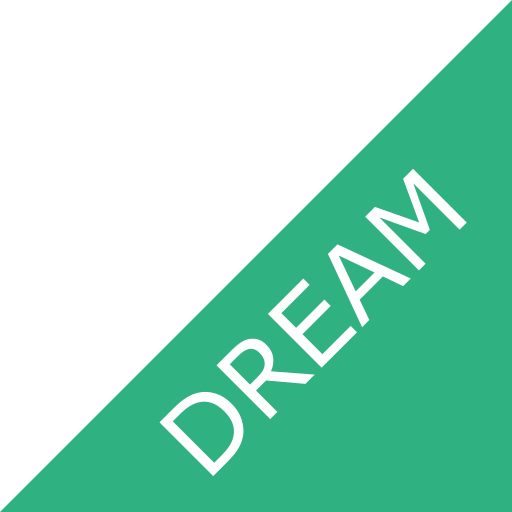
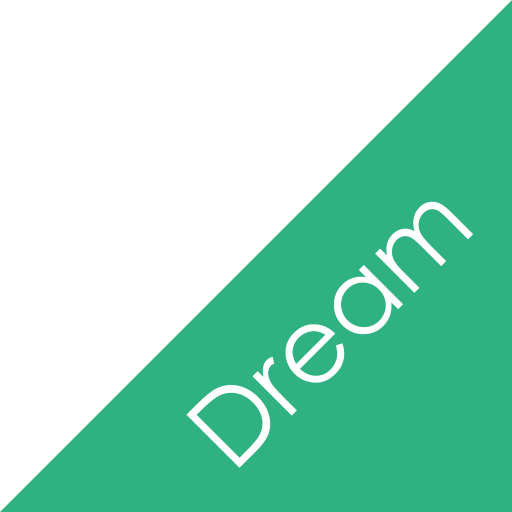
Improved status bar. Improved watermark. Added status message to details page. Added full name to user menu.

Changed region(s): [[0.3125, 0.3125, 0.9375, 0.9375]]

diff --git a/src/Details/Details.js b/src/Details/Details.js
@@ -35,7 +35,7 @@ class Details extends React.Component {
     this.setState({ thisNoodle: thisNoodle });
   };
   // Method to determine classes of the status bar
-  setStatusClasses = (
+  getStatusClasses = (
     noodleStatus,
     noodleMinTickets,
     noodleMaxTickets,
@@ -65,7 +65,7 @@ class Details extends React.Component {
     return status_classes;
   };
   // Method to determine classes of page elements
-  setElementClasses = (
+  getElementClasses = (
     noodleStatus,
     noodleLocation,
     noodleDate,
@@ -81,6 +81,7 @@ class Details extends React.Component {
       noodleTicketPrice: visible,
       noodleMinTickets: visible,
       noodleMaxTickets: visible,
+      noodleTicketsSold: visible,
       noodleBuyButton: visible,
     };
     if (noodleStatus == "dream") {
@@ -88,12 +89,50 @@ class Details extends React.Component {
       element_classes.noodleTicketPrice = hidden;
       element_classes.noodleMinTickets = hidden;
       element_classes.noodleMaxTickets = hidden;
+      element_classes.noodleTicketsSold = hidden;
       element_classes.noodleBuyButton = hidden;
     }
     if (noodleLocation == null) element_classes.noodleLocation = hidden;
     if (noodleDate == null) element_classes.noodleDate = hidden;
     if (noodleTime == null) element_classes.noodleTime = hidden;
     return element_classes;
+  };
+  // Method to determine a status message
+  getStatusMessage = () => {
+    const {
+      noodleStatus: status,
+      noodleTicketsSold: sold,
+      noodleMinTickets: min,
+      noodleMaxTickets: max,
+    } = this.state.thisNoodle;
+    if (status == "dream") {
+      return <p>Like this dream event to show your support!</p>;
+    } else if (sold < min) {
+      const diff = min - sold;
+      return (
+        <p>
+          Only{" "}
+          <span class="dreams_color_text">
+            <strong>{diff}</strong>
+          </span>{" "}
+          ticket
+          {diff > 1 ? "s" : ""} left to make it happen!
+        </p>
+      );
+    } else if (sold < max) {
+      const diff = max - sold;
+      return (
+        <p>
+          Only{" "}
+          <span class="events_color_text">
+            <strong>{diff}</strong>
+          </span>{" "}
+          ticket{diff > 1 ? "s" : ""} remaining!
+        </p>
+      );
+    } else {
+      return <p>This event is all sold out!</p>;
+    }
   };
   // Render method
   render() {
@@ -117,14 +156,14 @@ class Details extends React.Component {
     // Get the type for tag links
     const filterType = this.props.match.params.filterType;
     // Get status classes
-    const status_classes = this.setStatusClasses(
+    const status_classes = this.getStatusClasses(
       noodleStatus,
       noodleMinTickets,
       noodleMaxTickets,
       noodleTicketsSold
     );
     // Get element classes
-    const element_classes = this.setElementClasses(
+    const element_classes = this.getElementClasses(
       noodleStatus,
       noodleLocation,
       noodleDate,
@@ -187,14 +226,14 @@ class Details extends React.Component {
                 ></meter>
                 <meter
                   className={`details_progress_not_happening ${status_classes.notHappening}`}
-                  max={noodleMinTickets + 1}
-                  value={noodleTicketsSold + 1}
+                  max={noodleMinTickets}
+                  value={noodleTicketsSold}
                 ></meter>
                 <meter
                   className={`details_progress_happening ${status_classes.happening}`}
                   min={noodleMinTickets}
-                  max={noodleMaxTickets + 1}
-                  value={noodleTicketsSold + 1}
+                  max={noodleMaxTickets}
+                  value={noodleTicketsSold}
                 ></meter>
                 <meter
                   className={`details_progress_sold_out ${status_classes.soldOut}`}
@@ -203,10 +242,11 @@ class Details extends React.Component {
                   value={noodleTicketsSold + 1}
                 ></meter>
               </div>
+              {this.getStatusMessage()}
             </div>
           </div>
           <div id="details_intro_right" className="details_intro_column">
-            <h3>{<CapitalizedText text={noodleStatus} />} Details</h3>
+            <h3>{noodleStatus == "dream" ? "Dream " : ""}Event Details</h3>
             <div id="details_summary">
               <p class={element_classes.noodleLocation}>
                 Location: {noodleLocation}
@@ -217,6 +257,9 @@ class Details extends React.Component {
               <p class={element_classes.noodleTime}>{noodleTime}</p>
               <p class={element_classes.noodleTicketPrice}>
                 Ticket Price: {noodlePrice}
+              </p>
+              <p class={element_classes.noodleTicketsSold}>
+                Tickets Sold: {noodleTicketsSold}
               </p>
               <p class={element_classes.noodleMinTickets}>
                 Minimum Tickets Sold: {noodleMinTickets}

diff --git a/src/Details/css/Details.css b/src/Details/css/Details.css
@@ -81,8 +81,9 @@
 }
 
 #details .details_status_container_container {
-  background-color: lightgray;
-  padding: 10px 10px 10px 10px;
+  /* background-color: lightgray; */
+  /* padding: 10px 10px 10px 10px; */
+  padding: 10px 0px;
   border-radius: 10px;
 }
 
@@ -114,12 +115,13 @@
 #details .details_status_container > span {
   height: 25px;
   text-align: center;
-  color: darkgray;
+  color: lightgray;
   display: flex;
   justify-content: center;
   align-items: center;
-  background-color: darkgray;
+  background-color: lightgray;
   font-size: 14px;
+  user-select: none;
 }
 
 #details .details_progress_container {
@@ -132,11 +134,11 @@
   display: flex;
   justify-content: center;
   align-items: center;
-  background-color: lightgray;
+  /* background-color: lightgray; */
 }
 
 #details meter::-webkit-meter-bar {
-  background-color: darkgray;
+  background-color: lightgray;
   border: none;
 }
 
@@ -182,52 +184,72 @@
   border-radius: 0px;
 }
 
-#details .details_status_dream.passed,
+#details .details_status_dream.passed {
+  background-color: var(--events-color);
+  color: var(--events-color);
+}
+
 #details .details_progress_dream.passed::-webkit-meter-optimum-value {
+  background-color: var(--dreams-color);
+}
+
+#details .details_status_not_happening.passed {
   background-color: var(--events-color);
   color: var(--events-color);
 }
 
-#details .details_status_not_happening.passed,
 #details .details_progress_not_happening.passed::-webkit-meter-optimum-value {
+  background-color: var(--dreams-color);
+}
+
+#details .details_status_happening.passed {
   background-color: var(--events-color);
   color: var(--events-color);
 }
 
-#details .details_status_happening.passed,
 #details .details_progress_happening.passed::-webkit-meter-optimum-value {
+  background-color: var(--dreams-color);
+}
+
+#details .details_status_sold_out.passed {
   background-color: var(--events-color);
   color: var(--events-color);
 }
 
-#details .details_status_sold_out.passed,
 #details .details_progress_sold_out.passed::-webkit-meter-optimum-value {
   background-color: var(--events-color);
 }
 
 #details meter::-webkit-meter-optimum-value {
   background-color: darkgray;
+  transition: 1s width;
 }
 
 #details .details_status_dream.checked {
-  color: white;
+  /* color: white; */
   background-color: var(--dreams-color);
+  color: var(--dreams-color);
+}
+
+#details .details_status_container > span:hover {
+  color: white;
+  cursor: pointer;
 }
 
 #details .details_status_dream.finished {
   border-bottom-left-radius: 10px;
 }
 
-#details .details_status_not_happening.checked {
+/* #details .details_status_not_happening.checked {
   color: white;
-}
+} */
 
-#details .details_status_happening.checked {
+/* #details .details_status_happening.checked {
   color: white;
-}
+} */
 
 #details .details_status_sold_out.checked {
-  color: white;
+  /* color: white; */
   border-bottom-right-radius: 10px;
 }
 
@@ -237,6 +259,12 @@
 
 #details #details_host_intro_dream > button.hidden {
   display: none;
+}
+
+#details .details_status_container_container > p {
+  padding-top: 10px;
+  text-align: center;
+  user-select: none;
 }
 
 /* Style for mobile */

diff --git a/src/Navbar.js b/src/Navbar.js
@@ -8,7 +8,9 @@ class Navbar extends React.Component {
     // Get the current user data
     // Destructure the current user data
     const userID = this.props.userID;
-    const { userName, userImage } = this.props.userData[userID - 1];
+    const { userFirstName, userLastName, userImage } = this.props.userData[
+      userID - 1
+    ];
     // Return the Noodlewall navbar
     return (
       <nav>
@@ -85,7 +87,9 @@ class Navbar extends React.Component {
                     <h3>Your Account</h3>
                     <Link to={`/user/${userID}`}>
                       <img src={userImage} alt="User"></img>
-                      <p>{userName}</p>
+                      <p>
+                        {userFirstName} {userLastName}
+                      </p>
                     </Link>
                     <Link className="noodle_button" to="/">
                       Manage Your Account

diff --git a/src/noodleData.js b/src/noodleData.js
@@ -21,8 +21,8 @@ export const noodleData = [
     noodleDate: "2021-04-01",
     noodleTime: "8:30AM-5:00PM",
     noodlePrice: "$17.00",
-    noodleMinTickets: 25,
-    noodleMaxTickets: 50,
+    noodleMinTickets: 5,
+    noodleMaxTickets: 10,
     noodleTicketsSold: 0,
   },
   {
